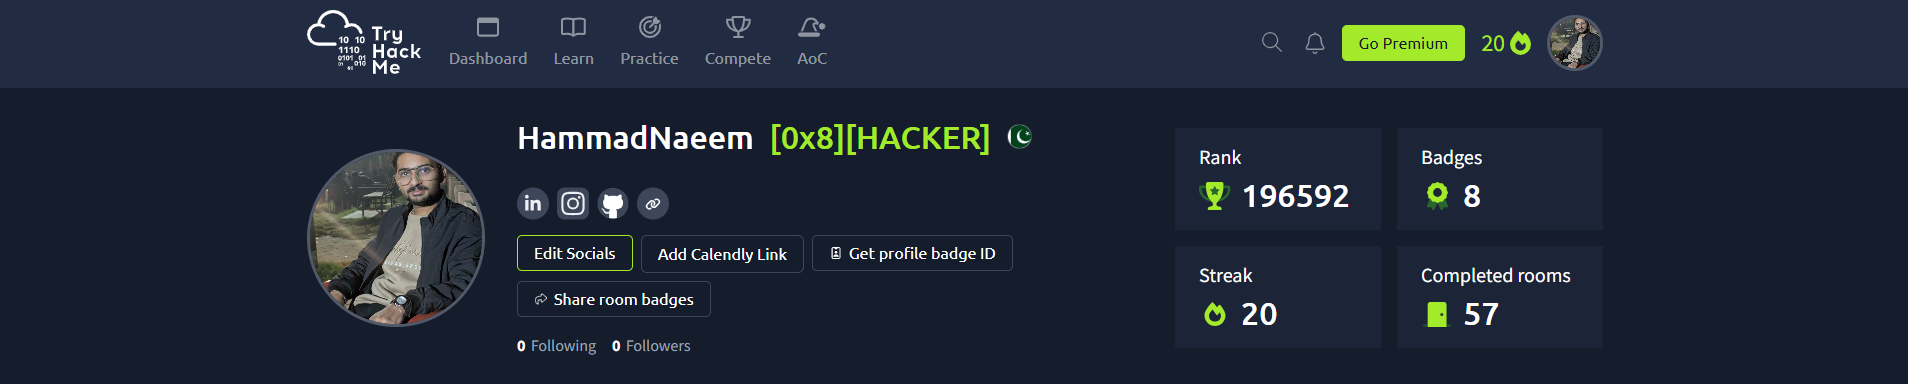
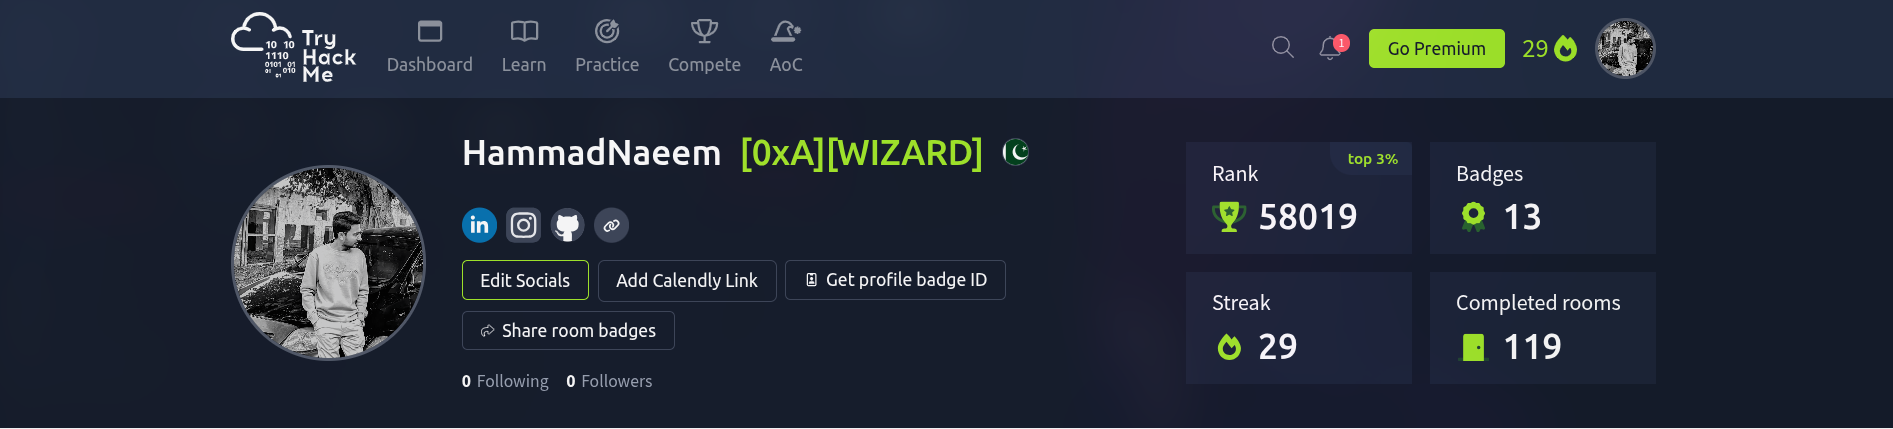
Updated files

diff --git a/src/data/portfolioData.js b/src/data/portfolioData.js
@@ -20,7 +20,7 @@ export const personalInfo = {
   logoInitials: "HN",
 
   role: "Cyber Security Student",
-  tagline: "Python Developer & AI Enthusiast",
+  tagline: "Python Developer & Top 2 on TryHackMe",
 
   description:
     "Cyber Security student with hands-on experience in Python, AI-powered tools, and security monitoring systems. Passionate about ethical hacking, artificial intelligence, and building intelligent applications with real-world impact.",
@@ -316,7 +316,7 @@ export const navLinks = [
 // 📄 SEO & META DATA
 // ============================================================
 export const seoData = {
-  title: "Hammad Naeem | Cyber Security Student",
+  title: "Hammad Naeem | Cyber Security Student:Top 3 on tryhackme",
   description:
     "Portfolio of Hammad Naeem — Cyber Security student at QUEST University specializing in Python, AI-powered security tools, ethical hacking, and intelligent systems.",
   keywords: "hammad naeem, cyber security, python developer, quest university, ethical hacking, nawabshah, portfolio",
